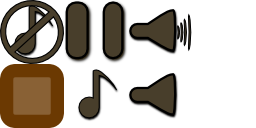
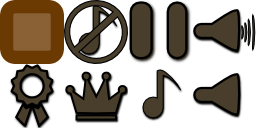
Icones achievement + leaderboard. Closes #95

diff --git a/puyopuyo-desktop/src/com/tacoid/pweek/PweekDesktop.java b/puyopuyo-desktop/src/com/tacoid/pweek/PweekDesktop.java
@@ -14,6 +14,7 @@ public class PweekDesktop implements IActivityRequestHandler, IGameService {
 			application = new PweekDesktop();
 		}
 		Pweek.getInstance().setDesktopMode(true);
+		Pweek.getInstance().setGameService(application);
 		TrackingManager.setTrackerType(TrackerType.DUMMY);
 		Pweek.setHandler(application);
 		new LwjglApplication(Pweek.getInstance(), "Pweek",  1280, 768, false);
@@ -35,7 +36,6 @@ public class PweekDesktop implements IActivityRequestHandler, IGameService {
 	@Override
 	public void login() {
 		System.out.println("GameService : Login");
-		
 	}
 
 	@Override

diff --git a/puyopuyo-android/src/com/tacoid/pweek/actors/AchievementButtonActor.java b/puyopuyo-android/src/com/tacoid/pweek/actors/AchievementButtonActor.java
@@ -23,7 +23,7 @@ public class AchievementButtonActor extends Button {
 	}
 
 	static public AchievementButtonActor createAchievementButton(TextureAtlas atlasButtons) {
-		TextureRegion onRegion = new TextureRegion(atlasButtons.findRegion("sound-on"));
+		TextureRegion onRegion = new TextureRegion(atlasButtons.findRegion("achievement"));
 		
 		return new AchievementButtonActor(onRegion, onRegion, onRegion);
 	}

diff --git a/puyopuyo-android/src/com/tacoid/pweek/actors/LeaderboardButtonActor.java b/puyopuyo-android/src/com/tacoid/pweek/actors/LeaderboardButtonActor.java
@@ -23,7 +23,7 @@ public class LeaderboardButtonActor extends Button {
 	}
 
 	static public LeaderboardButtonActor createLeaderboardButton(TextureAtlas atlasButtons) {
-		TextureRegion onRegion = new TextureRegion(atlasButtons.findRegion("sound-on"));
+		TextureRegion onRegion = new TextureRegion(atlasButtons.findRegion("leaderboard"));
 		
 		return new LeaderboardButtonActor(onRegion, onRegion, onRegion);
 	}
